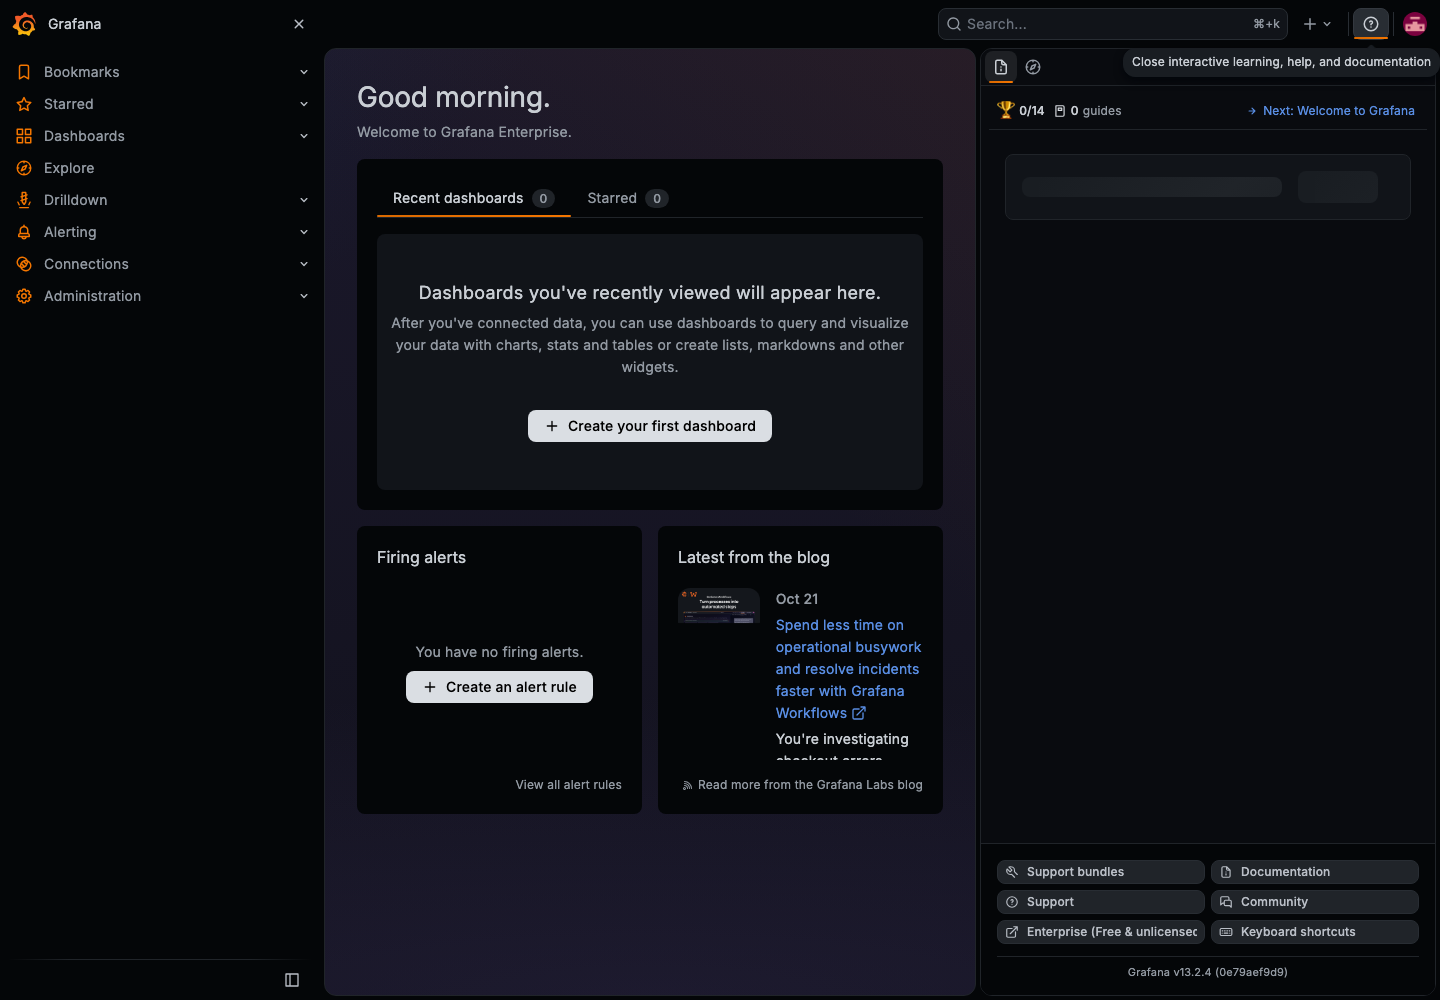
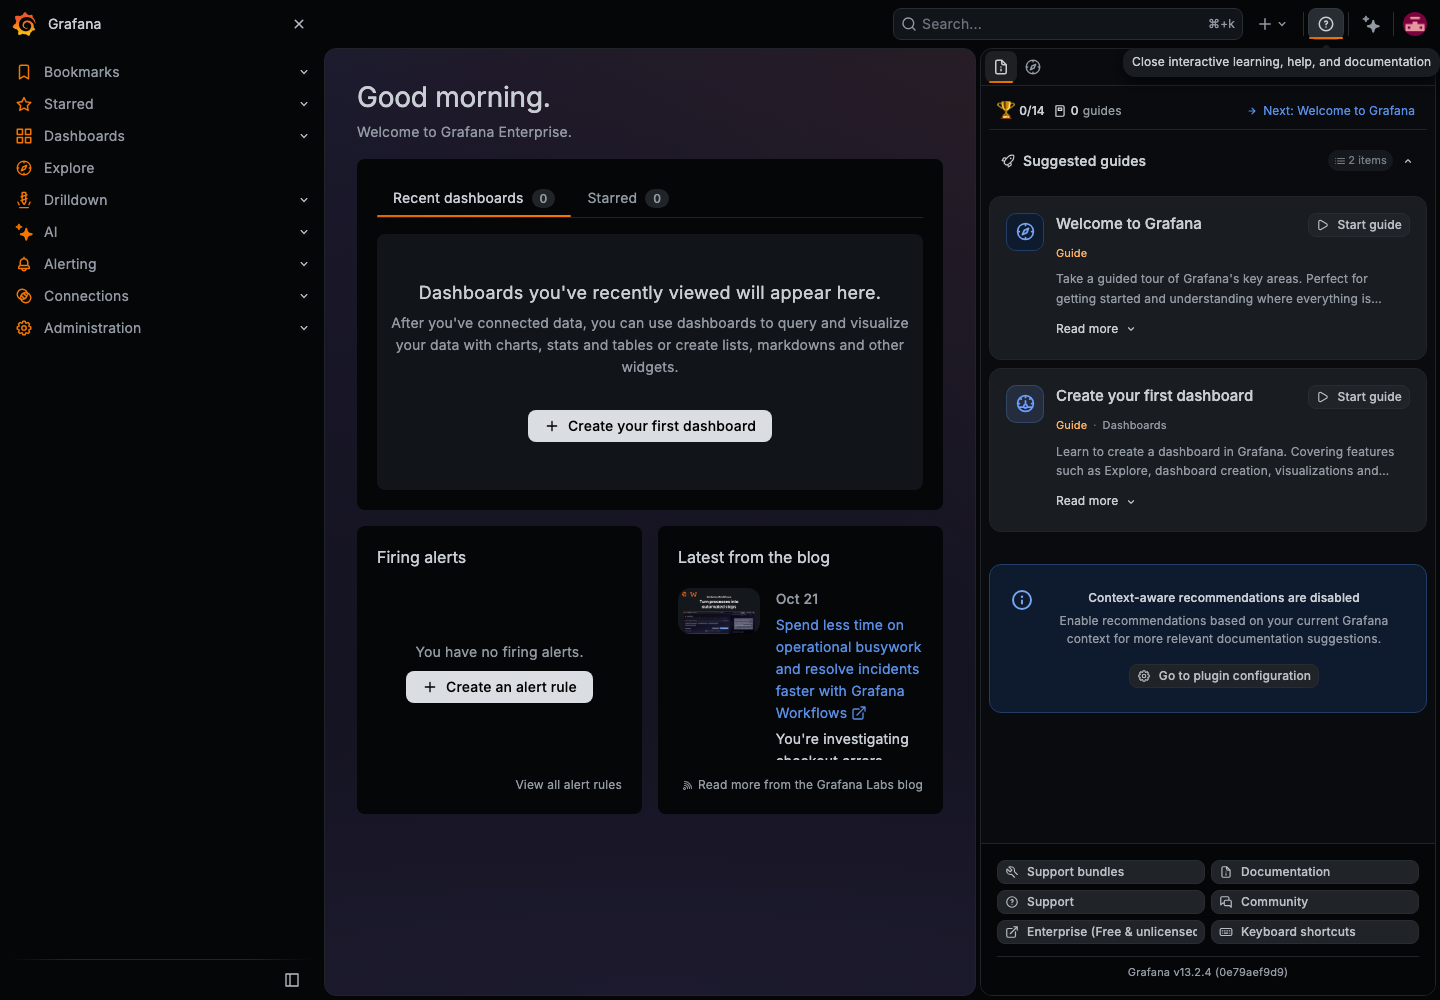
fix: follow Grafana sidebar background and button conventions
Address Torkel’s feedback: let Grafana own the sidebar background and border instead of painting plugin shell backgrounds, and remove the launch-button minimum height so the Grafana Button component controls sizing. Preserve secondary recommendation actions and use info color/background/border tokens for unclassified card icons. Refresh the real browser screenshot. Refs #1438.

diff --git a/src/components/LearningContentCard/learning-topic-visual.ts b/src/components/LearningContentCard/learning-topic-visual.ts
@@ -79,12 +79,12 @@ export function getLearningTopicVisual(
   kind: 'guide' | 'path' | 'docs' = 'guide'
 ) {
   const { icon, label, darkColor, lightColor } = getLearningTopicMetadata(topic, kind);
-  const color = (theme.isDark ? darkColor : lightColor) ?? theme.colors.text.secondary;
+  const color = (theme.isDark ? darkColor : lightColor) ?? theme.colors.info.text;
   return {
     icon,
     color,
     label,
-    background: label ? `${color}20` : theme.colors.background.primary,
-    border: label ? `${color}38` : theme.colors.border.weak,
+    background: label ? `${color}20` : theme.colors.info.background,
+    border: label ? `${color}38` : theme.colors.info.border,
   };
 }

diff --git a/src/styles/docs-panel.styles.ts b/src/styles/docs-panel.styles.ts
@@ -115,7 +115,6 @@ export const addGlobalModalStyles = () => {
 export const getContainerStyles = (theme: GrafanaTheme2) => ({
   container: css({
     label: 'combined-journey-container',
-    backgroundColor: theme.flags.visualDesignRefresh ? theme.colors.background.page : theme.colors.background.primary,
     borderRadius: 0,
     display: 'flex',
     flexDirection: 'column',

diff --git a/src/styles/context-panel.styles.ts b/src/styles/context-panel.styles.ts
@@ -4,7 +4,6 @@ import { GrafanaTheme2 } from '@grafana/data';
 export const getContainerStyles = (theme: GrafanaTheme2) => ({
   container: css({
     label: 'context-container',
-    backgroundColor: theme.flags.visualDesignRefresh ? theme.colors.background.page : theme.colors.background.primary,
     borderRadius: 0,
     display: 'flex',
     flexDirection: 'column',

diff --git a/src/components/LearningContentCard/learning-content-card.styles.ts b/src/components/LearningContentCard/learning-content-card.styles.ts
@@ -84,7 +84,7 @@ export const getLearningContentCardStyles = (theme: GrafanaTheme2) => {
         overflowWrap: 'anywhere',
       },
     }),
-    action: css({ marginLeft: 'auto', flexShrink: 0, minHeight: theme.spacing(4) }),
+    action: css({ marginLeft: 'auto', flexShrink: 0 }),
     badges: css({
       display: 'flex',
       alignItems: 'center',
